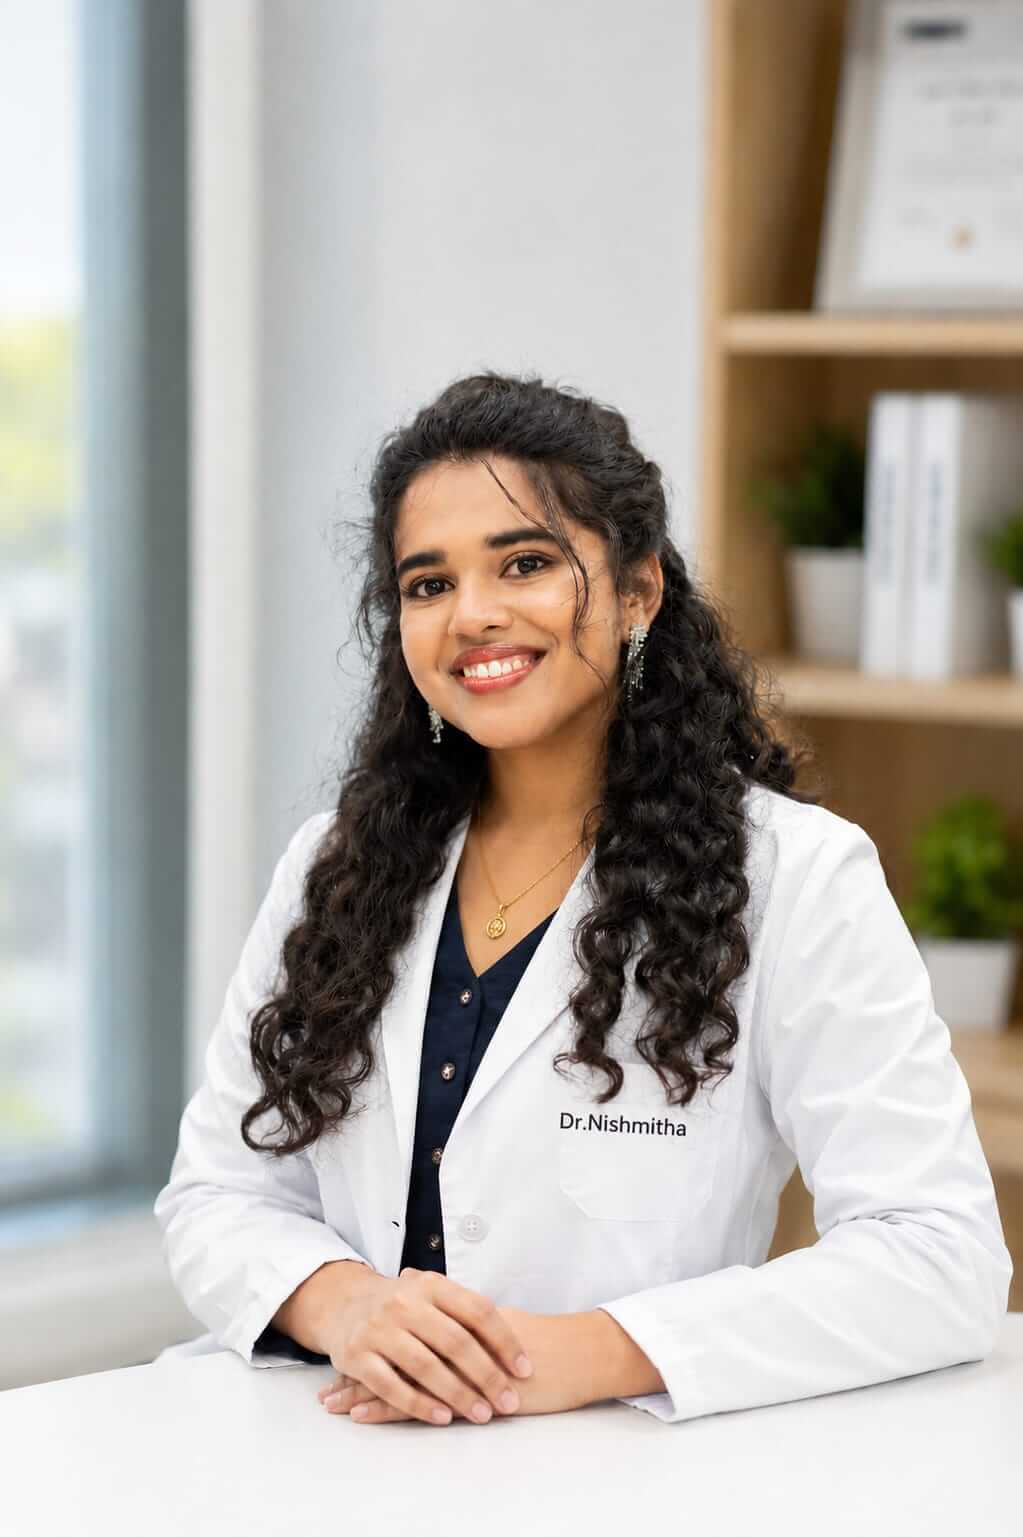
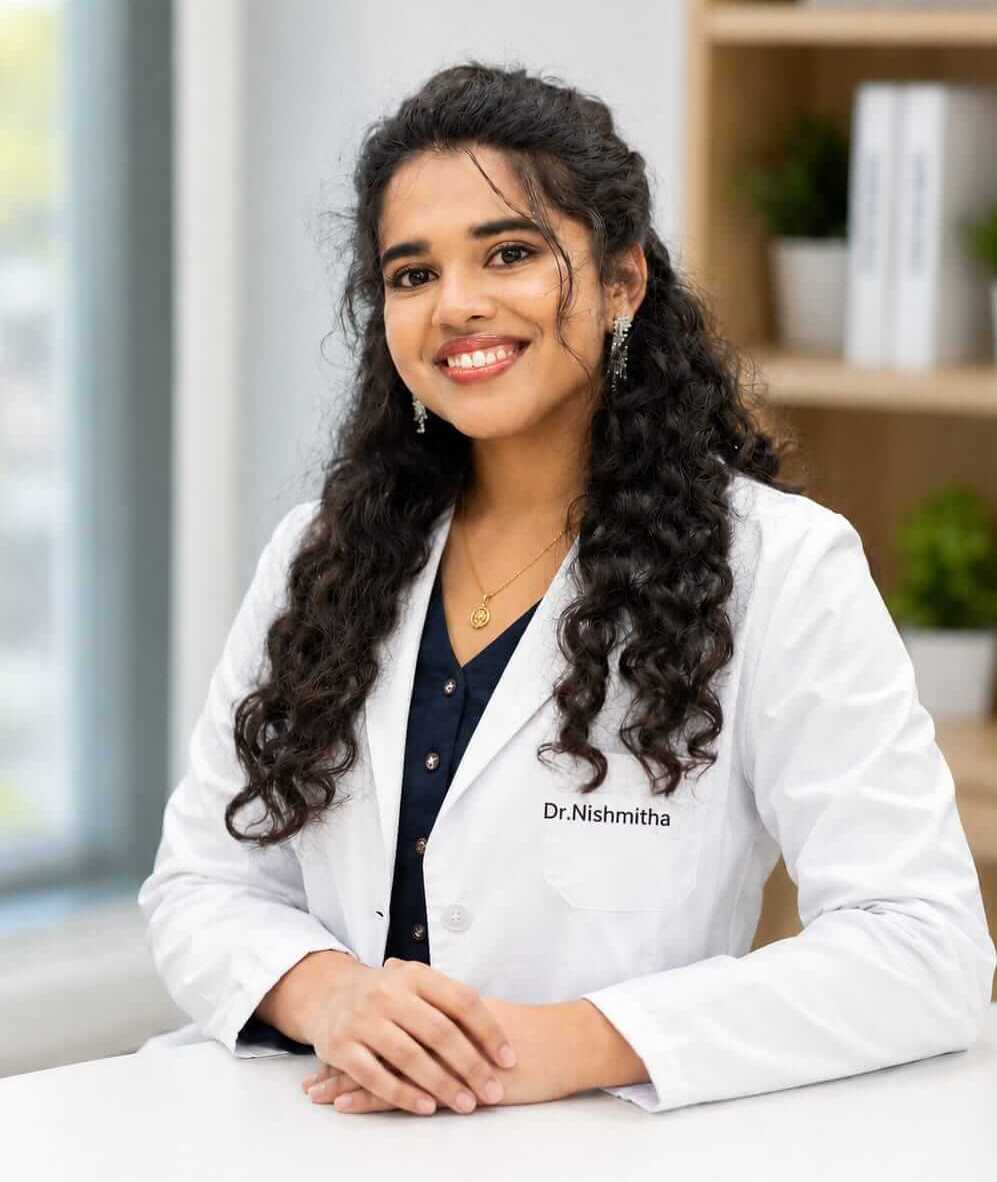
Fix Dr. Nishmitha photo: portrait aspect ratio container (no white space); reduce Next slot top spacing

diff --git a/app/sections/Hero.tsx b/app/sections/Hero.tsx
@@ -468,7 +468,7 @@ export default function Hero() {
                   Expert physiotherapy care
                 </div>
 
-                <div className="animate-float-delayed absolute right-4 top-4 sm:top-16 rounded-xl border border-white/20 bg-white/90 p-3 shadow-lg z-20">
+                <div className="animate-float-delayed absolute right-4 top-2 sm:top-6 rounded-xl border border-white/20 bg-white/90 p-3 shadow-lg z-20">
                                   <p className="text-[10px] font-semibold uppercase tracking-[0.15em] text-slate-400">Next slot</p>
                                   <p className="mt-0.5 text-base font-bold text-slate-900">{nextSlot ?? "Mon–Sat · 9am–7pm"}</p>
                                 </div>
